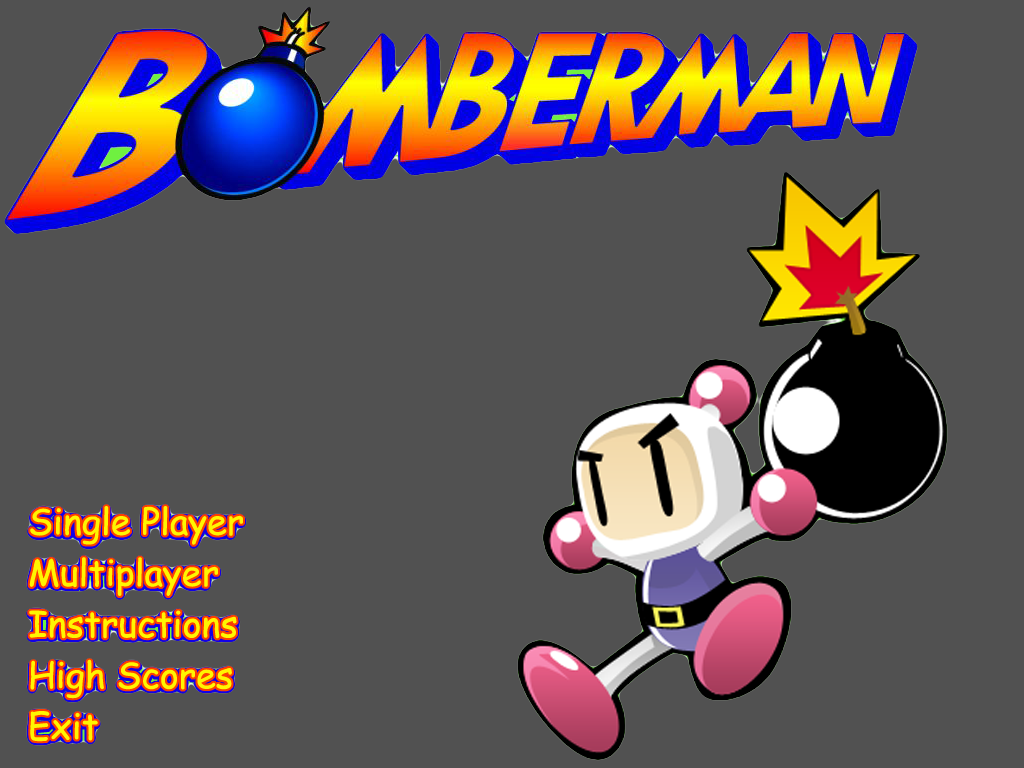
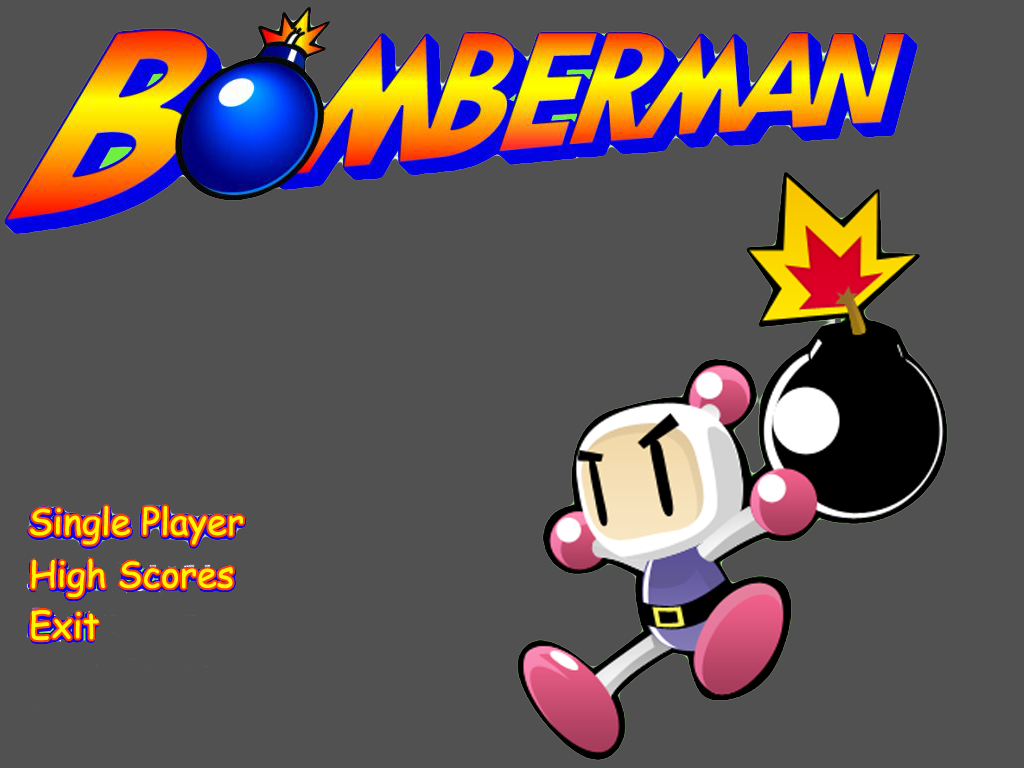
modify title screen

Changed region(s): [[0.0, 0.7188, 0.25, 0.9688]]

diff --git a/bomberman-pygame/titlescreen.py b/bomberman-pygame/titlescreen.py
@@ -41,14 +41,8 @@ class Titlescreen():
 							self.singlePlayer() # Single Player game clicked
 						elif self.withinBoundary(25, 250, 550, 600):
 							userInteracted = True
-							self.multiplayer() # Multiplayer game clicked
+							self.highScores() # High Score clicked
 						elif self.withinBoundary(25, 240, 605, 645):
-							userInteracted = True
-							self.instructions() # Instructions clicked
-						elif self.withinBoundary(25, 240, 655, 700):
-							userInteracted = True
-							self.highScores() # High Scores clicked
-						elif self.withinBoundary(25, 105, 705, 745):
 							userInteracted = True
 							exitMain = True
 							pygame.quit() # Exit clicked
